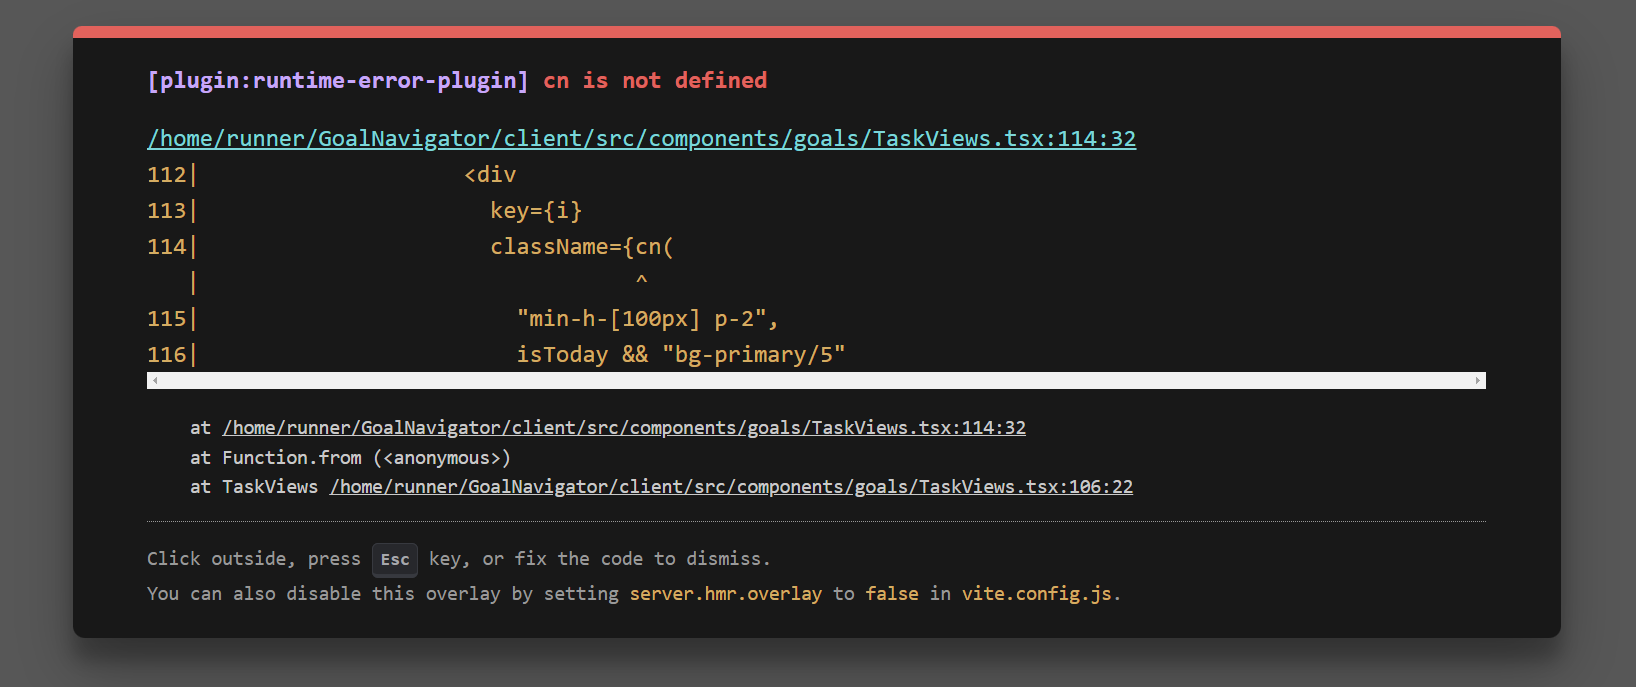
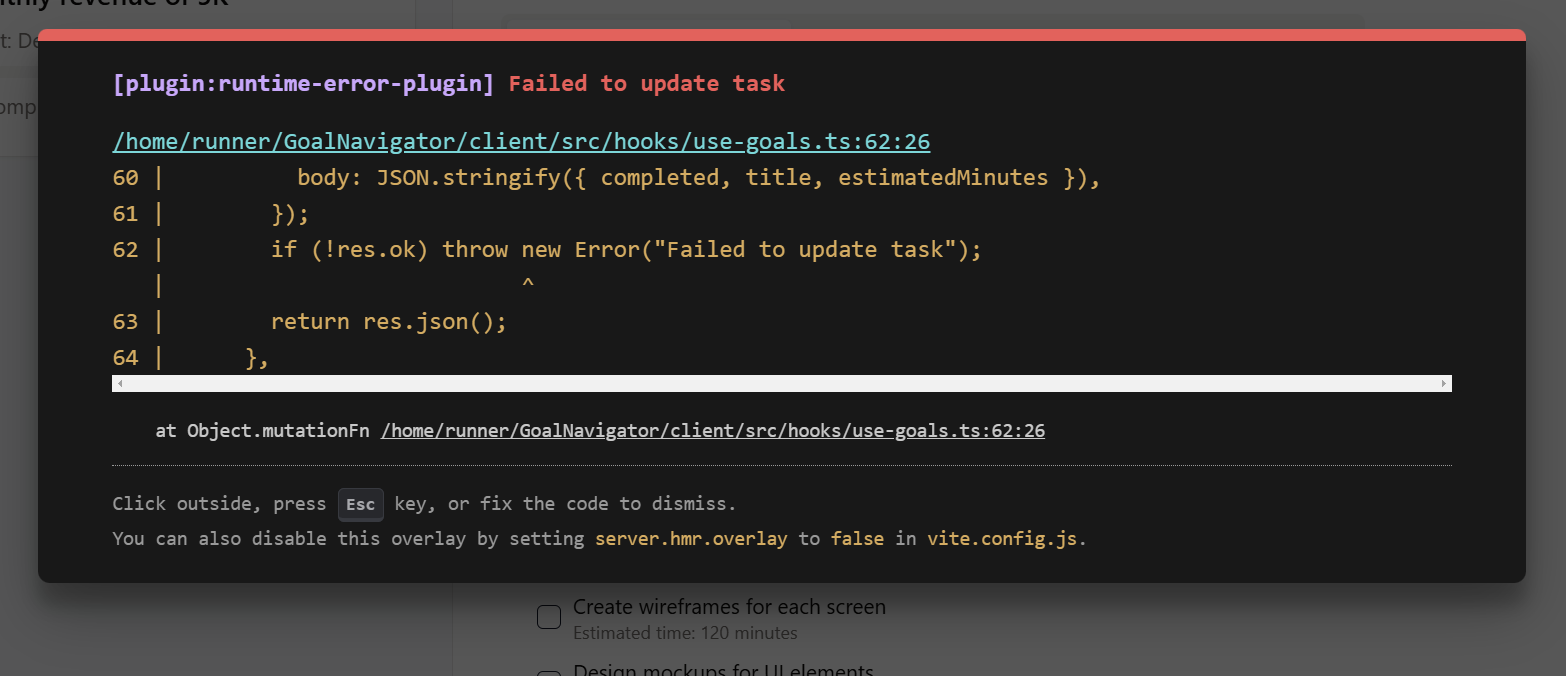
Agent query: Can you try setting a date for a task now? Does it work without errors?
Improve task update handling: add error handling and task not found check, include task title in update.

Screenshot: https://storage.googleapis.com/screenshot-production-us-central1/5cbcd047-3b39-438f-8057-f5204b920970/549ba373-2067-4a1e-a7a7-1ba1441ab343.jpg

Changed region(s): [[0.0, 0.0, 0.9808, 0.963], [0.3678, 0.9941, 0.5517, 1.0]]

diff --git a/server/routes.ts b/server/routes.ts
@@ -115,12 +115,20 @@ export function registerRoutes(app: Express): Server {
       if (typeof completed !== 'undefined') updateData.completed = completed;
       if (title) updateData.title = title;
       if (typeof estimatedMinutes !== 'undefined') updateData.estimatedMinutes = estimatedMinutes;
-      if (typeof plannedDate !== 'undefined') updateData.plannedDate = plannedDate ? new Date(plannedDate) : null;
+      if (plannedDate !== undefined) {
+        updateData.plannedDate = plannedDate ? new Date(plannedDate) : null;
+      }
+
+      console.log('Updating task:', { taskId, updateData }); // Add logging
 
       const [updatedTask] = await db.update(tasks)
         .set(updateData)
         .where(eq(tasks.id, parseInt(taskId)))
         .returning();
+
+      if (!updatedTask) {
+        return res.status(404).json({ error: "Task not found" });
+      }
 
       // Update goal progress
       if (updatedTask && typeof completed !== 'undefined') {

diff --git a/client/src/components/goals/TaskViews.tsx b/client/src/components/goals/TaskViews.tsx
@@ -33,10 +33,15 @@ export function TaskViews({ tasks, goalId }: TaskViewsProps) {
   };
 
   const handleUpdateTaskDate = async (taskId: number, date: Date | undefined) => {
-    await updateTask({ 
-      taskId, 
-      plannedDate: date ? date.toISOString() : null 
-    });
+    try {
+      await updateTask({ 
+        taskId, 
+        title: tasks.find(t => t.id === taskId)?.title,
+        plannedDate: date ? date.toISOString() : null 
+      });
+    } catch (error) {
+      console.error('Failed to update task date:', error);
+    }
   };
 
   return (
